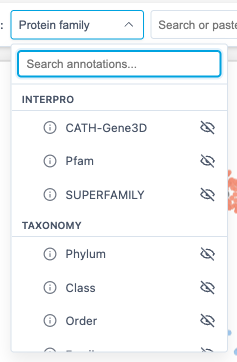
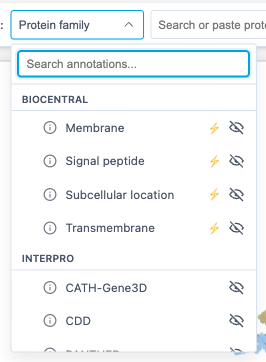
docs(explore): re-capture the images on the new demo and the EAT example
`pnpm docs:images` against the rebuilt demo (7,831 proteins, coordinates
unchanged) and, for the four EAT images, the three-finger toxins example
coloured by `toxin_class`. Every image was checked by eye.

- The hand-placed Figure Editor overlays still land on the arthropod
  phospholipase D and venom Kunitz-type clusters. Their alt text named a
  red circle and a "Cluster A" label, and the zoom inset's put the target
  in the lower right; both now describe the images.
- The demo now carries Biocentral columns, so the annotation dropdown
  opens on that section; the control-bar page lists all six sections.
- The connectors GIF's alt text says what it shows: one line from a
  transferred toxin to its source, then a line to every dependant.
- The landing page needed no change: its preview draws the 7,831 venom
  proteins, and A4FS04, P0DQE3 and P20005 hold what it says about them.

Tick task 7.11.

Claude-Session: https://claude.ai/code/session_017BctV6L62rNQusmr84sGQh

diff --git a/openspec/changes/curated-example-datasets/tasks.md b/openspec/changes/curated-example-datasets/tasks.md
@@ -278,7 +278,8 @@ Before every commit:
 - [x] 7.9 `apps/web/tests/helpers/example-fixtures.ts` switches to the final ids with the flag (task 10.4); run the E2E suite on the flipped catalog. A later cleanup drops the roles' `interimId`, the interim view names from `derive-example-role-fixtures.py` and its fixtures, `INTERIM_EXAMPLE_SPECS` and the switch.
   - The helper already picks the final ids from `FINAL_CATALOG_IS_LIVE`, so the flip needed no edit there; the `example-datasets` project passed 33 of 33 on the flipped catalog (7.7), and the full default suite runs in 7.12.
 - [x] 7.10 Part of the 7.7 commit: empty `INTERIM_CATALOG_IDS` in `docs/scripts/example-details.ts`, fill in the remaining `‹…›` author facts and counts, add the thumbnails (emptying `THUMBNAILS_PENDING`), and regenerate `docs/explore/example-datasets.md`. (The page, the retargeted pin test and the CI/precommit wiring landed with §5; the final cards with task 10.5.)
-- [ ] 7.11 Re-run `pnpm docs:images` against the new demo; check the PLD/Kunitz overlay coordinates and the demo-dependent alt texts. Check the landing page against the landing data rebuilt in 7.8: the preview, and the demo-dependent copy and alt texts in `apps/web/src/landing/FeatureShowcase.tsx` (the "… venom proteins" label, and A4FS04 "from the demo bundle"). Move the EAT captures (`scripts/docs-screenshots/eat-helpers.ts`) to the `three-finger-toxins` bundle, `toxin_class`, as its note says, re-capture the four EAT images and check the `eat.md` alt texts.
+- [x] 7.11 Re-run `pnpm docs:images` against the new demo; check the PLD/Kunitz overlay coordinates and the demo-dependent alt texts. Check the landing page against the landing data rebuilt in 7.8: the preview, and the demo-dependent copy and alt texts in `apps/web/src/landing/FeatureShowcase.tsx` (the "… venom proteins" label, and A4FS04 "from the demo bundle"). Move the EAT captures (`scripts/docs-screenshots/eat-helpers.ts`) to the `three-finger-toxins` bundle, `toxin_class`, as its note says, re-capture the four EAT images and check the `eat.md` alt texts.
+  - Result: `pnpm docs:images` re-captured every image from a plain dev server on another port (`PLAYWRIGHT_BASE_URL`, which the capture config now reads), 26 of 26 captures. The demo's coordinates are unchanged, so the hand-placed overlays still land: the circle and "PLD" on the arthropod phospholipase D cluster, the "Kunitz" arrow into the venom Kunitz-type cluster. Their alt text described a red circle and a "Cluster A" label, and the zoom inset's put the target in the lower right; both now say what the images show. The annotation dropdown now opens on the demo's new Biocentral section, so the control-bar page lists all six source sections. The EAT captures open `three-finger-toxins` by its `?dataset=` link, coloured by `toxin_class`, and the connectors capture steps the pointer off each clicked protein, since the hover tooltip had covered the source line; the four `eat.md` images show 429 observed and 659 transferred values, the EAT and STATS badges, one source fanning out to its 7 dependants, and the rings thinning at 40, 70 and 90 % (626, 124 and 29 left). The landing page needed no copy change: the preview draws the 7,831 venom proteins, and A4FS04 (acidic phospholipase A2 natratoxin), P0DQE3 (no curated EC number) and its source P20005 hold what the landing page says in the new demo.
 - [ ] 7.12 Full verification:
   - `pnpm test:ci`, `pnpm format:check`, `pnpm precommit`;
   - `CI=1 pnpm test:e2e` (all default projects);

diff --git a/docs/explore/figure-editor.md b/docs/explore/figure-editor.md
@@ -144,7 +144,7 @@ While focus is inside an editable input (e.g. a label's text field), Delete/Back
 
 ## Overlay tools
 
-![Figure Editor with three overlays placed: a red circle highlighting a protein cluster, an arrow pointing at the cluster, and a "Cluster A" label, sidebar shows the matching Overlays section](./images/figure-editor-overlays.png)
+![Figure Editor with four overlays placed on the demo map: a black circle around the arthropod phospholipase D cluster with a "PLD" label above it, and a "Kunitz" label with an arrow pointing into the venom Kunitz-type cluster; the sidebar lists them in its Overlays section](./images/figure-editor-overlays.png)
 
 The toolbar at the bottom of the preview switches between drawing tools.
 
@@ -176,7 +176,7 @@ Click to place a text label. Default text is "Label" and can be renamed in the s
 
 ### Zoom-inset tool
 
-![Figure Editor with a zoom inset placed: dashed source rectangle marks the magnified region on the left of the plot, the magnified target rectangle sits in the lower-right with a solid border, sidebar shows Zoom Insets with Dot size and Border controls](./images/figure-editor-zoom-inset.png)
+![Figure Editor with a zoom inset placed: a dashed source rectangle marks a small cluster on the left of the plot, the magnified target rectangle sits below it in the lower-left with a solid border and connector lines, sidebar shows Zoom Insets with Dot size and Border controls](./images/figure-editor-zoom-inset.png)
 
 Creates a magnified view of a region. Two-phase workflow:
 

diff --git a/docs/explore/eat.md b/docs/explore/eat.md
@@ -69,7 +69,7 @@ Provenance is also drawable. With the overlay on, clicking a point in the plot t
 - **Click a transferred protein** and one dashed line joins it to its source, the protein whose label it borrowed for the currently active annotation.
 - **Click a source protein** and dashed lines fan out to every protein that borrowed from it.
 
-![Tracing a transferred value back to its source, then fanning out from that source](./images/eat-connectors.gif)
+![Clicking a transferred toxin draws one dashed line to the reviewed toxin it borrowed its class from; clicking that source draws a line to every toxin that borrowed from it](./images/eat-connectors.gif)
 
 A protein that is both a transferred protein and a source for others takes the first case: only its own source line is drawn. If that source's legend category is hidden, the click draws nothing at all.
 

diff --git a/docs/explore/control-bar.md b/docs/explore/control-bar.md
@@ -36,7 +36,7 @@ Choose which annotation to use for coloring points:
 
 The Annotation dropdown features:
 
-- **Grouped categories**: Features are organized into sections (UniProt, InterPro, Taxonomy, Other)
+- **Grouped categories**: Features are organized into sections, one per source (Biocentral, InterPro, TED, Taxonomy, UniProt, Other)
 - **Search**: Type to filter features by name (case-insensitive)
 - **Keyboard navigation**: Use arrow keys to move the highlight, Enter to select, Escape to close.
   Hovering does not move the arrow-key highlight, and Enter picks the row under the pointer whenever
